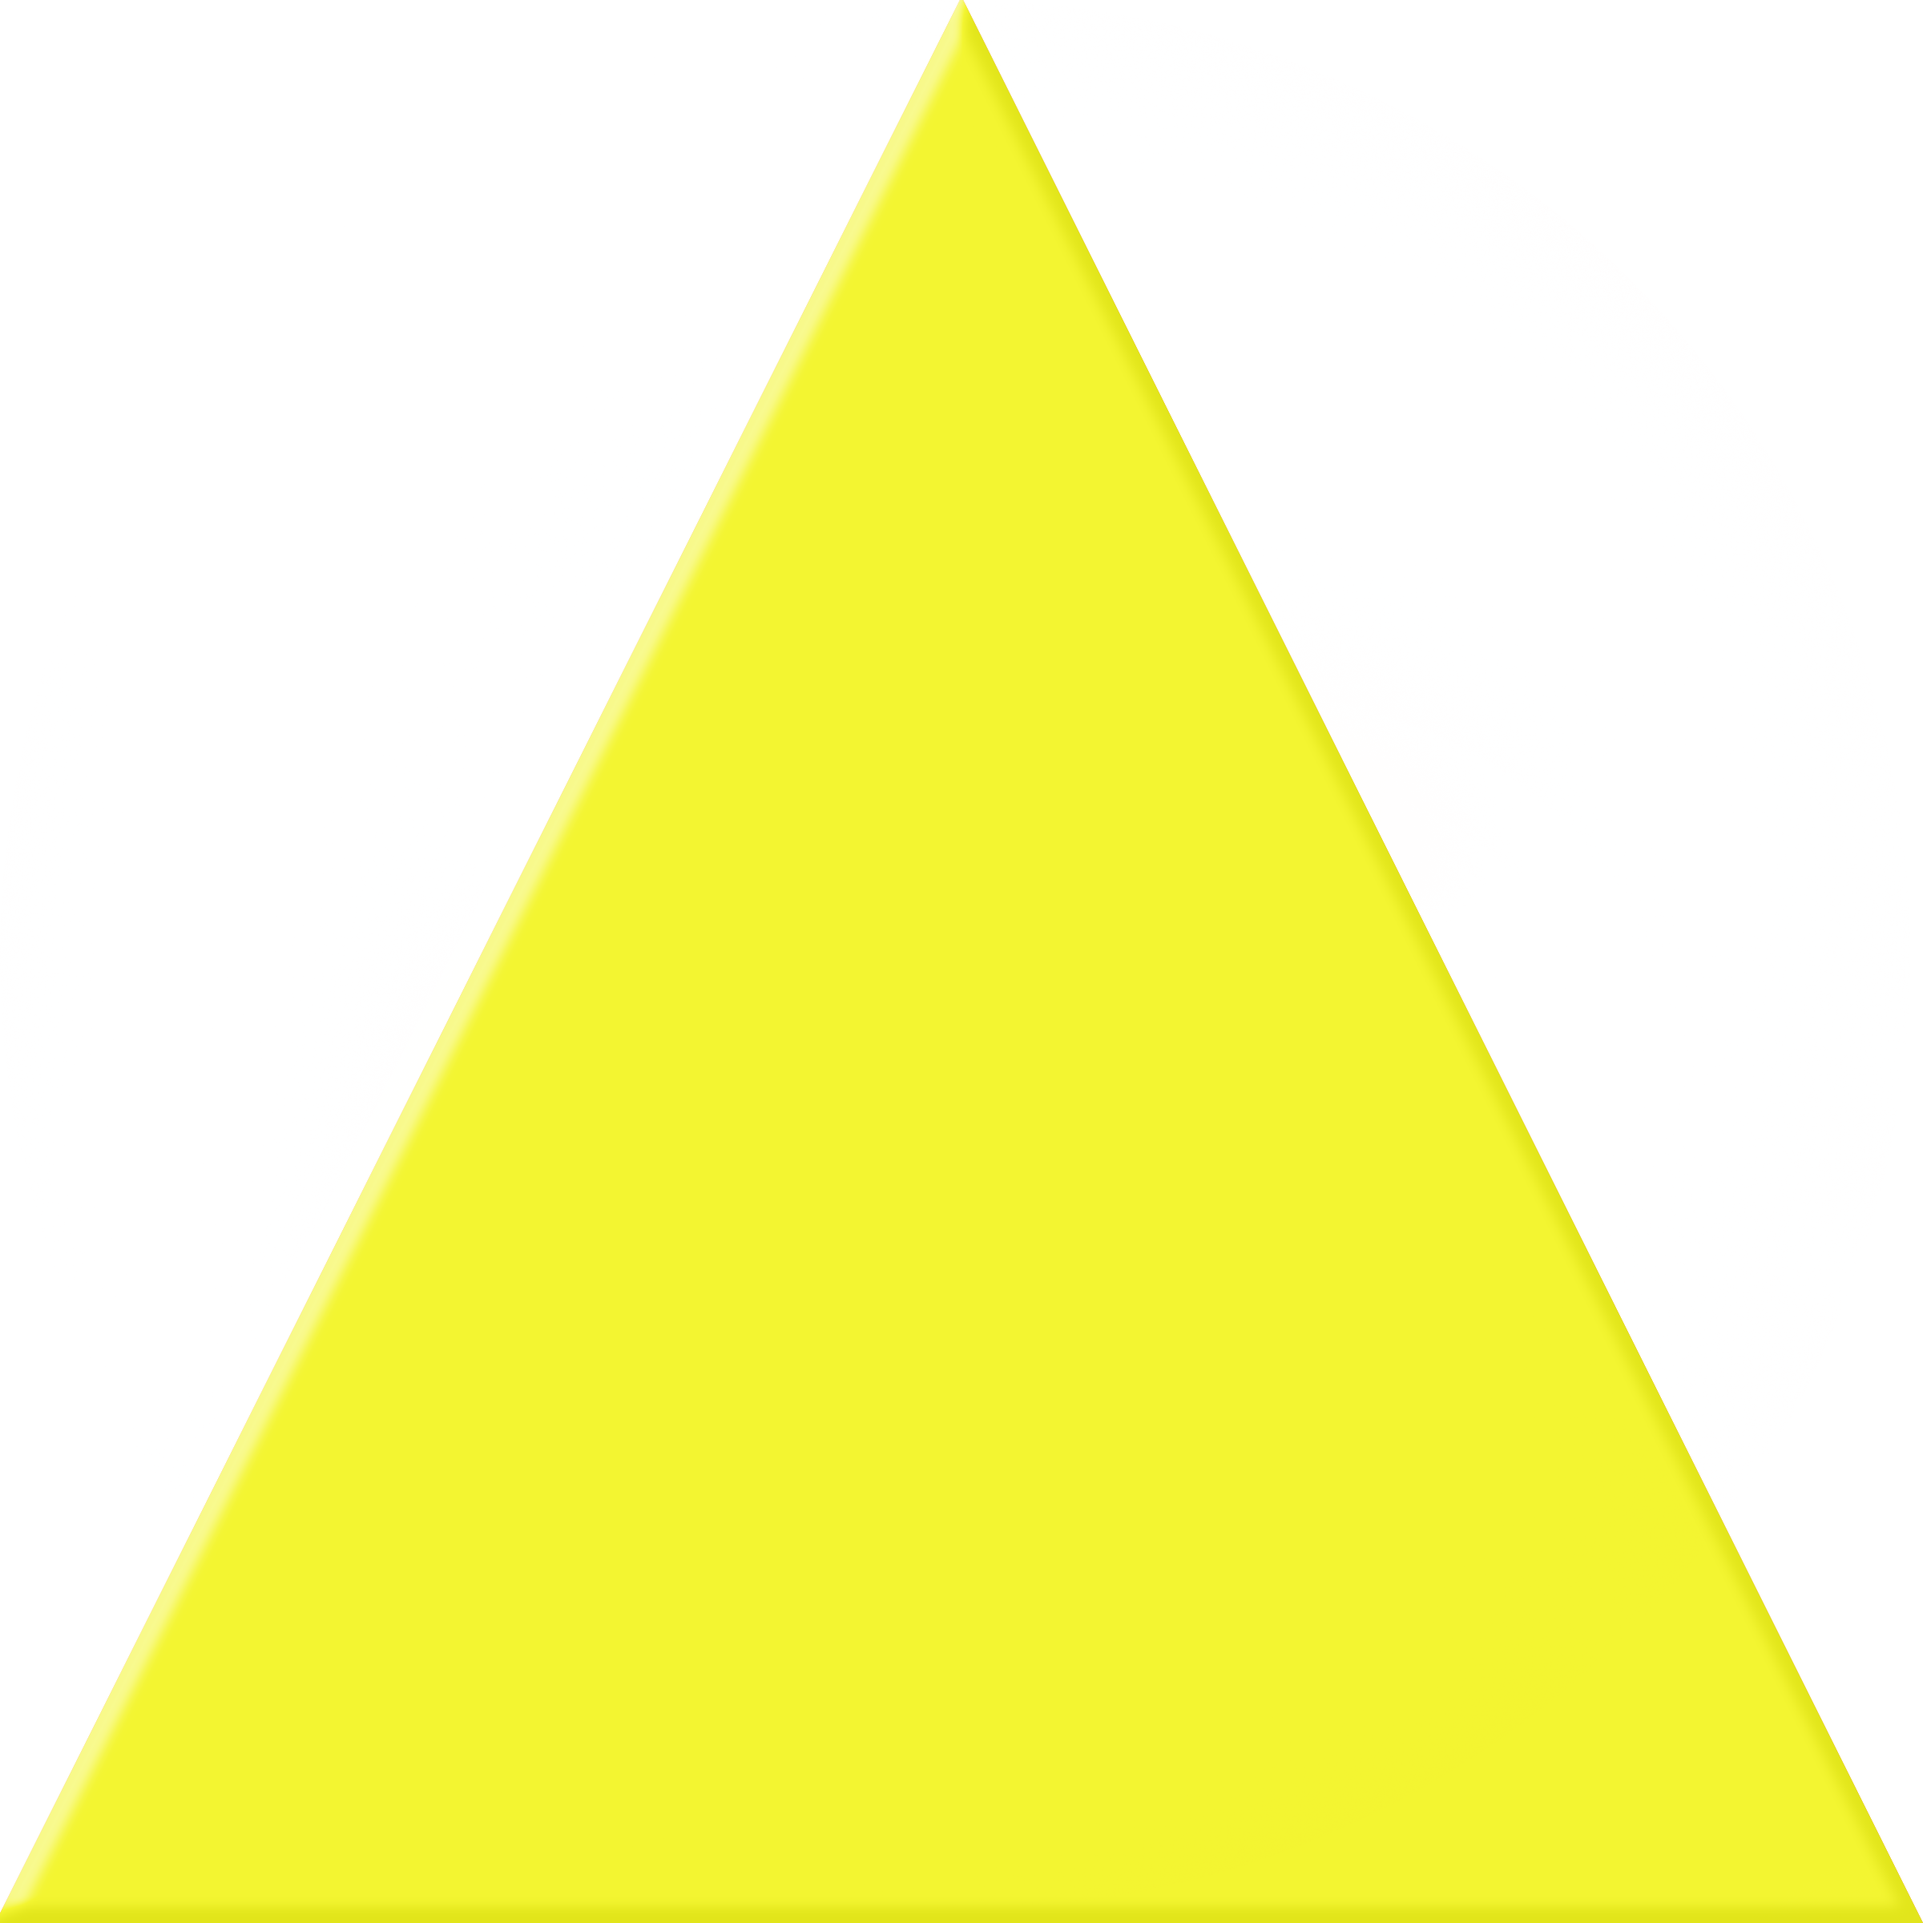
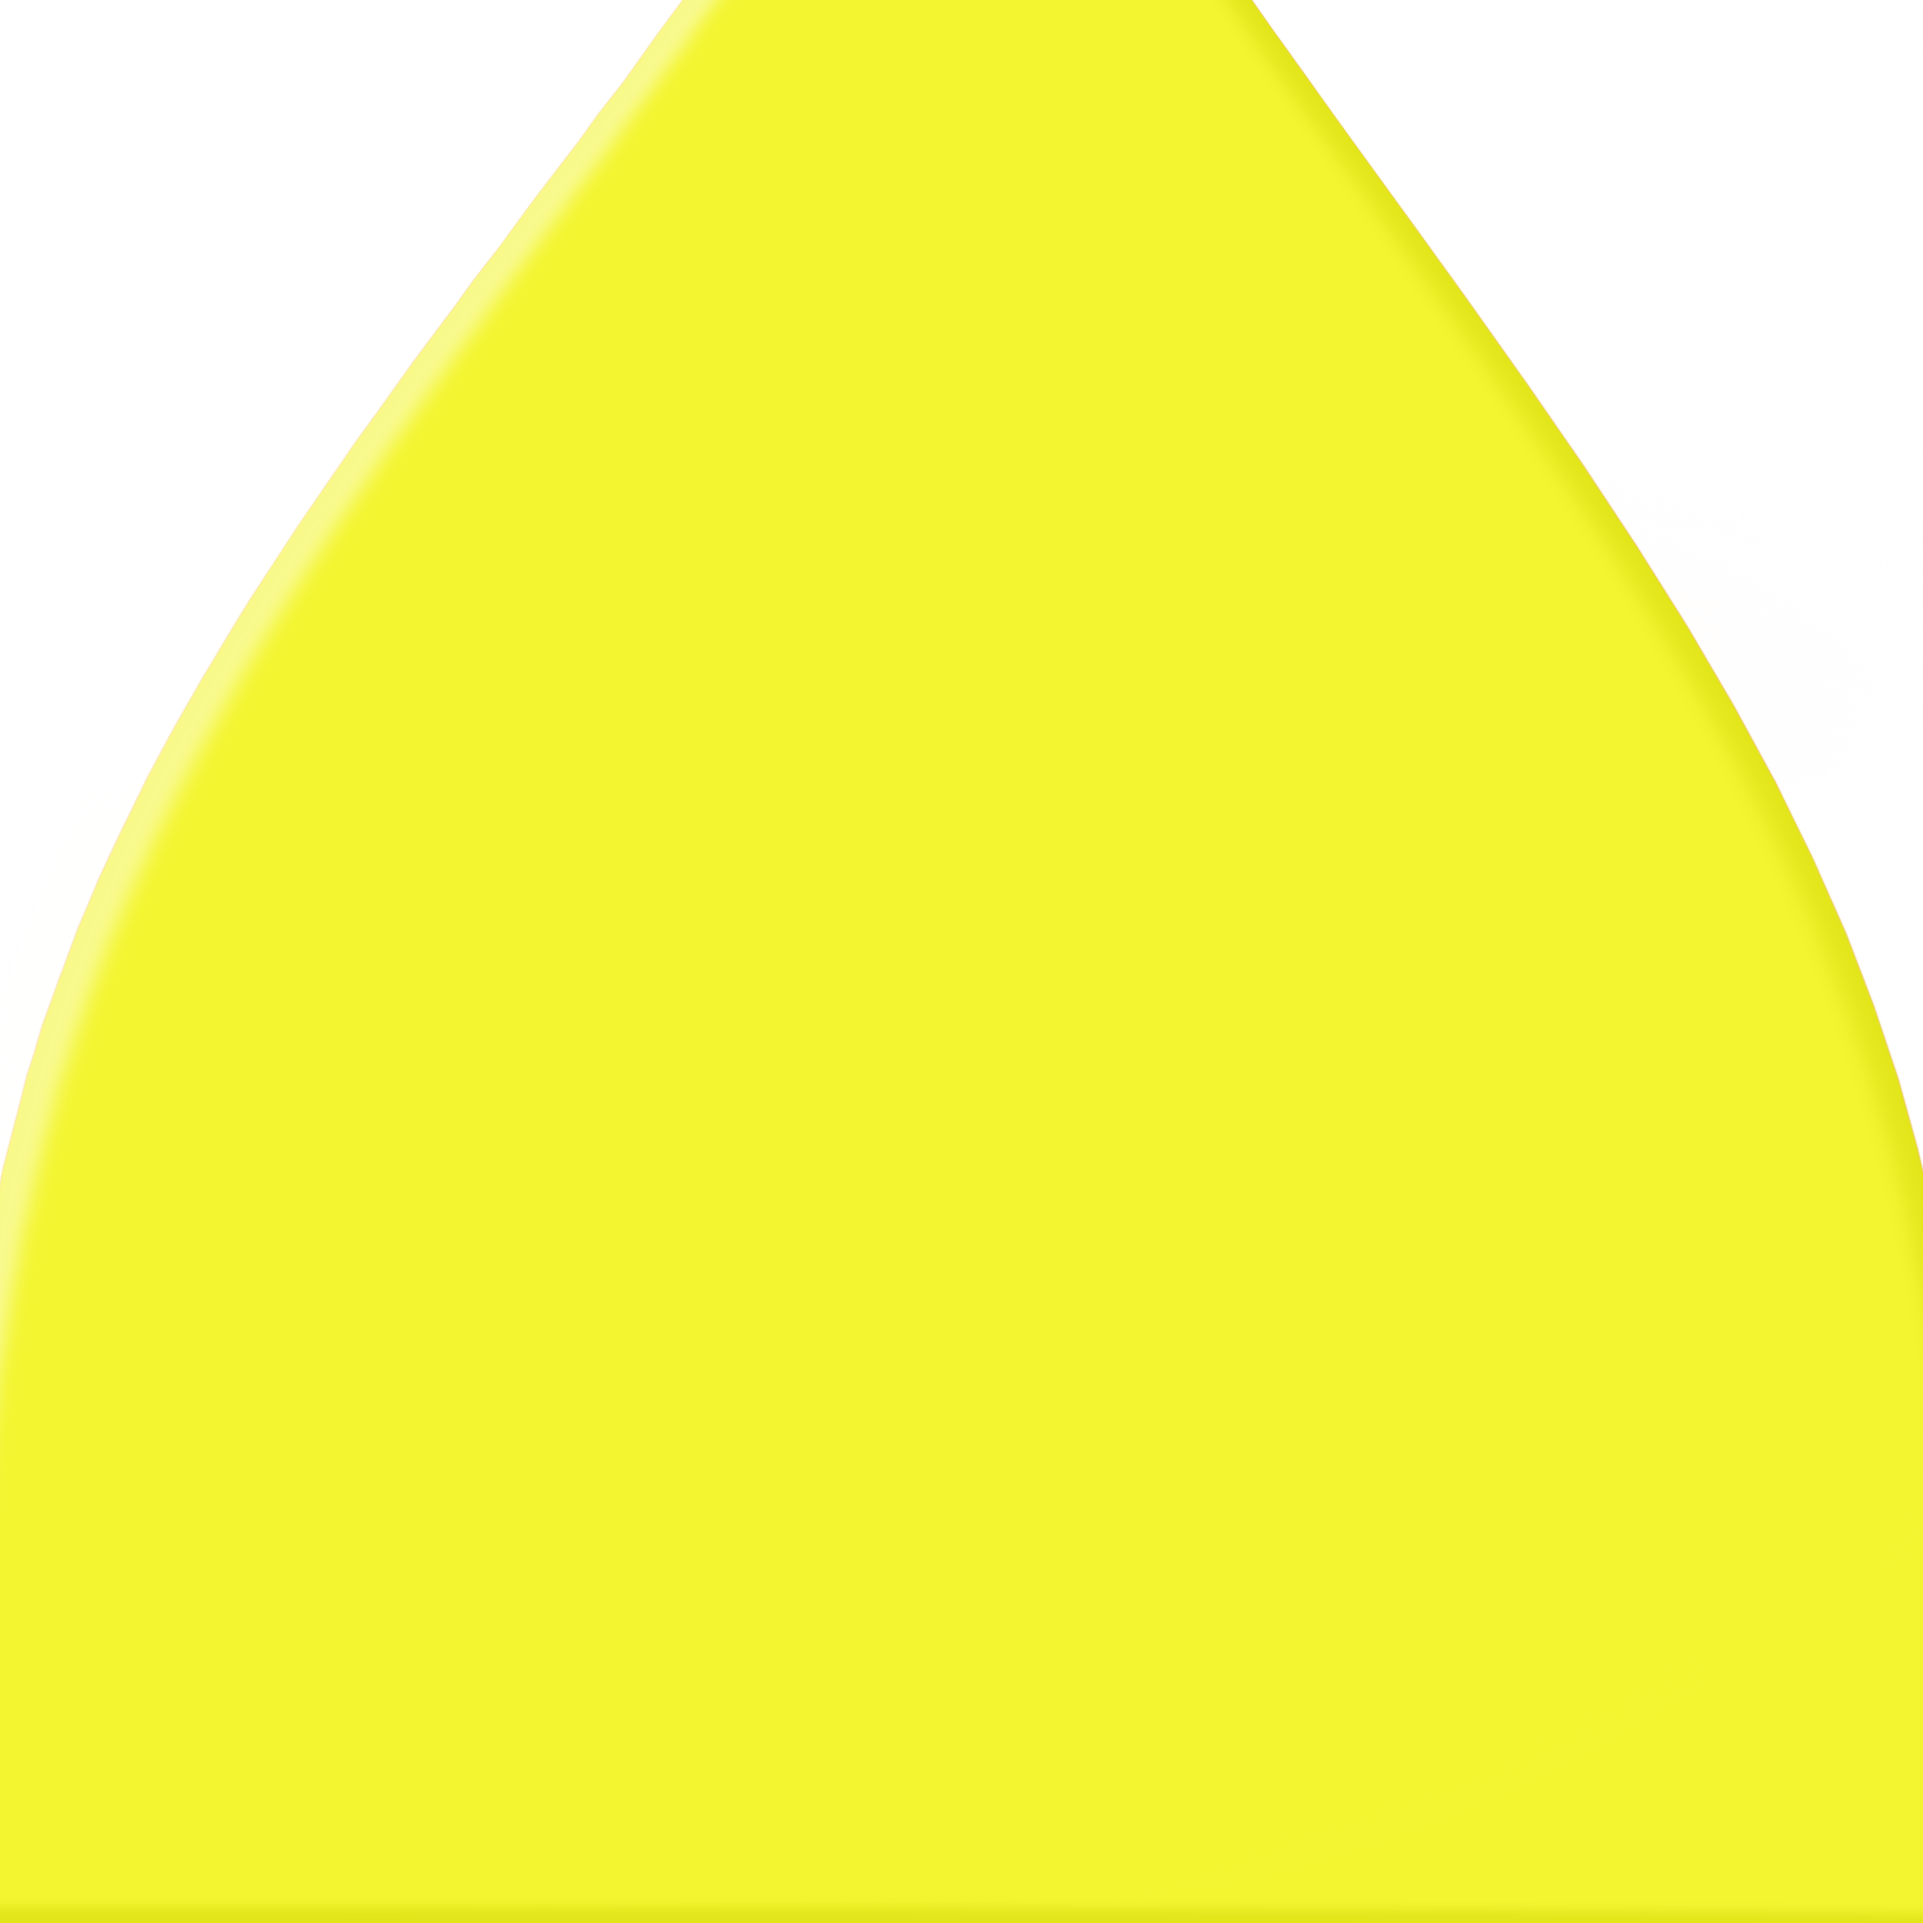
Cono de detección mejorado.
Tambien se han arreglado errores menores y se han puesto signos de puntuación en los html de la página.

diff --git a/GDD.html b/GDD.html
@@ -3,7 +3,7 @@
 
 <head>
     <meta charset="UTF-8">
-    <link rel="shortcut icon" href="favicon.png" type="image/png" />
+    <link rel="shortcut icon" href="searchlogo.png" type="image/png" />
     <meta name="viewport" content="width=device-width, initial-scale=2.0">
     <link rel="stylesheet" href="game.css">
     <script src="phaser.min.js"></script>
@@ -14,7 +14,7 @@
 <body background="Imagenes/Fondos_Botones/FondoPag.jpeg">
     <center>
       <img src="Imagenes/Fondos_Botones/DProyectLogoWhite.png" width="600" height="225" align="middle">
- </center>
+    </center>
       <br>   
        
     <table align="center" border="20" bordercolor="#2DE1BD">
@@ -27,14 +27,16 @@
 
     <section>      
         <article>
-          <h2>Descripcion de D-Proyect</h2>
-          <div style="position: static; margin: auto; overflow: hidden; text-align: center; width: 800px; height: 210px">
-                  <p align="middle"><font size="5" color="#FFFFFF">Proyecto-D es un juego top-down en el cual encarnaremos a <strong>"D"</strong> el cual tratará de 
-                    salir de la mazmorra con la mayor cantidad de puntos y tesoros consigo que pueda antes de que acabe el tiempo. Deberá evitar ser detectado por enemigos que estarán repartidos por
-                       el laberinto. Al ser detectado se pierde una vida y hará que aumente la velocidad de los enemigos y si llegamos
-                        a perder todas las vidas acabará el juego.
+          <h2>¿Qu&eacute es D-Proyect?</h2>
+          <div style="position: static; margin: auto; overflow: hidden; text-align: center; width: 800px; height: 230px">
+                  <p align="middle"><font size="5" color="#FFFFFF">Proyecto-D es un juego top-down en el cual encarnaremos a <strong>"D"</strong>, 
+                    una pequeña criatura fruto de experimentos biol&oacutegicos con una visi&oacuten distorsionada de la realidad.
+                    "D" tratará de salir de la  "mazmorra" con la mayor cantidad de puntos y tesoros consigo que pueda antes de que acabe el tiempo.
+                     Deberá evitar ser detectado por enemigos que estarán repartidos por el laberinto. 
+                     Al ser detectado se pierde una vida y hará que aumente la velocidad de los enemigos y si llegamos a perder todas las vidas 
+                     acabará el juego.
                       <br>
-                      Para mas detalles puede leer el <a href="https://drive.google.com/file/d/1d6oCsKbiLoPAmAREumPztzaQ1uI1h4ME/view?usp=sharing"><font size="5"><strong>Documento de Diseño</strong></a></font>.
+                      Para m&aacutes detalles puede leer el <a href="https://drive.google.com/file/d/1d6oCsKbiLoPAmAREumPztzaQ1uI1h4ME/view?usp=sharing"><font size="5"><strong>Documento de Diseño</strong></a></font>.
                     </font></p>
           </div>
           </article>

diff --git a/Desarrolladores.html b/Desarrolladores.html
@@ -3,7 +3,7 @@
 
 <head>
     <meta charset="UTF-8">
-    <link rel="shortcut icon" href="favicon.png" type="image/png" />
+    <link rel="shortcut icon" href="searchlogo.png" type="image/png" />
     <meta name="viewport" content="width=device-width, initial-scale=2.0">
     <link rel="stylesheet" href="game.css">
     <script src="phaser.min.js"></script>
@@ -28,13 +28,14 @@
     
     <section>      
         <article>
-          <h2>Sobre Nosotos</h2>
-          <div style="position: static; margin: auto;overflow: hidden; text-align: center; width: 800px; height: 210px;">
-                  <p align="middle"><font size="5" color="#FFFFFF">Los desarrolladores de este juegos somos Adrian de Lucas y Aurora Garcia, estudiantes de 2º año de desarrollo de videojuegos de la UC. Nuestro juego 
-                      D-Proyect es para la asignatura de PVLI(Programacion de Videojuegos en Lenguajes Interpretados) en la cual se nos ha enseñado JavaScript y Phaser 3 mostrandonos la utilidad que tiene a la hora del desarrollo para
-                    juegos en navegadores.
+          <h2>¿Qui&eacutenes somos?</h2>
+          <div style="position: static; margin: auto;overflow: hidden; text-align: center; width: 800px; height: 260px;">
+                  <p align="middle"><font size="5" color="#FFFFFF">Los desarrolladores de D-Proyect somos Adri&aacuten de Lucas y Aurora Garc&iacutea, estudiantes de 2º año del Grado de Desarrollo de Videojuegos de la UCM. 
+                    Nuestro juego, D-Proyect ha sido creado para la asignatura de PVLI(Programaci&oacuten de Videojuegos en Lenguajes Interpretados) en la cual se nos ha enseñado JavaScript y Phaser 3 
+                    mostr&aacutendonos la utilidad que tiene a la hora de desarrollar juegos simples en navegadores. En tiempo de desarrollo ha sido de tres meses y ha sido dividido en 3 Hitos. Los sprints de desarrollo han tenido
+                    una duraci&oacuten de una semana.
                   <br>
-                  Pueden visitar nuestro <a href="https://github.com/Adrian-de-Lucas-Gomez/PVLI-ProjectD"><font size="5"><strong>GIT</strong></a></font> para asi ver todo lo que tiene el juego.</font></p>
+                  Pueden visitar nuestro <a href="https://github.com/Adrian-de-Lucas-Gomez/PVLI-ProjectD"><font size="5"><strong>GIT</strong></a></font> para as&iacute ver todo lo que ofrece el juego.</font></p>
           </div>
           </article>
       </section>

diff --git a/EndGame.js b/EndGame.js
@@ -7,7 +7,7 @@ export default class EndGame extends Phaser.Scene {
       this.load.image('fondico','./Imagenes/Fondos_Botones/FondoMenu.jpg');
       this.load.image('Logo','./Imagenes/Fondos_Botones/DproyectLogoWhite.png');
       this.load.image('botonfin','./Imagenes/Fondos_Botones/ReturnButton.png');
-      this.load.audio('GO_music','./Sounds/NewHope.ogg')
+      this.load.audio('End_music','./Sounds/NewHope.ogg');
       //this.load.image('fondico','./FondoMenu.jpg');
   }
   init(data){
@@ -28,9 +28,9 @@ export default class EndGame extends Phaser.Scene {
     let boton = this.add.image(400, 500, 'botonfin');
     boton.setScale(0.10);
     //let image = this.add.image(400, 300, 'fondo');
-    this.ScoreText = this.add.text(150, 300, 'Puntuación final: ' + this.FinalScore, { fontSize: '40px', fill: '#FFFFFF'});
+    this.ScoreText = this.add.text(150, 300, 'Final score: ' + this.FinalScore, { fontSize: '40px', fill: '#FFFFFF'});
 
-    this.sound.play("GO_music",{loop: true , volume: 0.05})
+    this.sound.play("End_music",{loop: true , volume: 0.05})
 
     boton.setInteractive();
     boton.on("pointerover", ()=>{boton.setScale(0.11)})

diff --git a/game.css b/game.css
@@ -1,7 +1,7 @@
 h1 {
   
   text-align: center;
-  font-size: 50px;
+  font-size: 80px;
   color: white;
   
 }
@@ -9,21 +9,20 @@ h1 {
 h2 {
   
   text-align: center;
-  padding: 5px;
-  font-size: 45px;
+  font-size: 65px;
   color: white;
   
 }
 
 div{
   position: fixed; 
-  bottom:10px; 
-  left: 10; 
+  bottom:20px; 
+  left: 20; 
   text-align: center; 
   background-color: #2DE1BD;
    width: 250px; 
    height: 45px; 
-   border-radius: 40px; 
+   border-radius: 20px; 
    overflow: hidden;
-   padding-bottom: 15px;
+   padding-bottom: 25px;
 }

diff --git a/GameOver.js b/GameOver.js
@@ -26,7 +26,7 @@ export default class GameOver extends Phaser.Scene {
     let boton = this.add.image(400, 500, 'botonfin');
     boton.setScale(0.10);
 
-    this.ScoreText = this.add.text(225, 250, 'Puntuacion: ' + this.FinalScore, { fontSize: '40px', fill: '#FFFFFF'});
+    this.ScoreText = this.add.text(265, 250, 'Score: ' + this.FinalScore, { fontSize: '40px', fill: '#FFFFFF'});
 
     this.sound.play("GO_music",{loop: true , volume: 0.05})
 

diff --git a/index.html b/index.html
@@ -3,7 +3,7 @@
 
 <head>
     <meta charset="UTF-8">
-    <link rel="shortcut icon" href="player.png" type="image/png" />
+    <link rel="shortcut icon" href="searchlogo.png" type="image/png" />
     <meta name="viewport" content="width=device-width, initial-scale=2.0">
     <link rel="stylesheet" href="game.css">
     <script src="phaser.min.js"></script>
